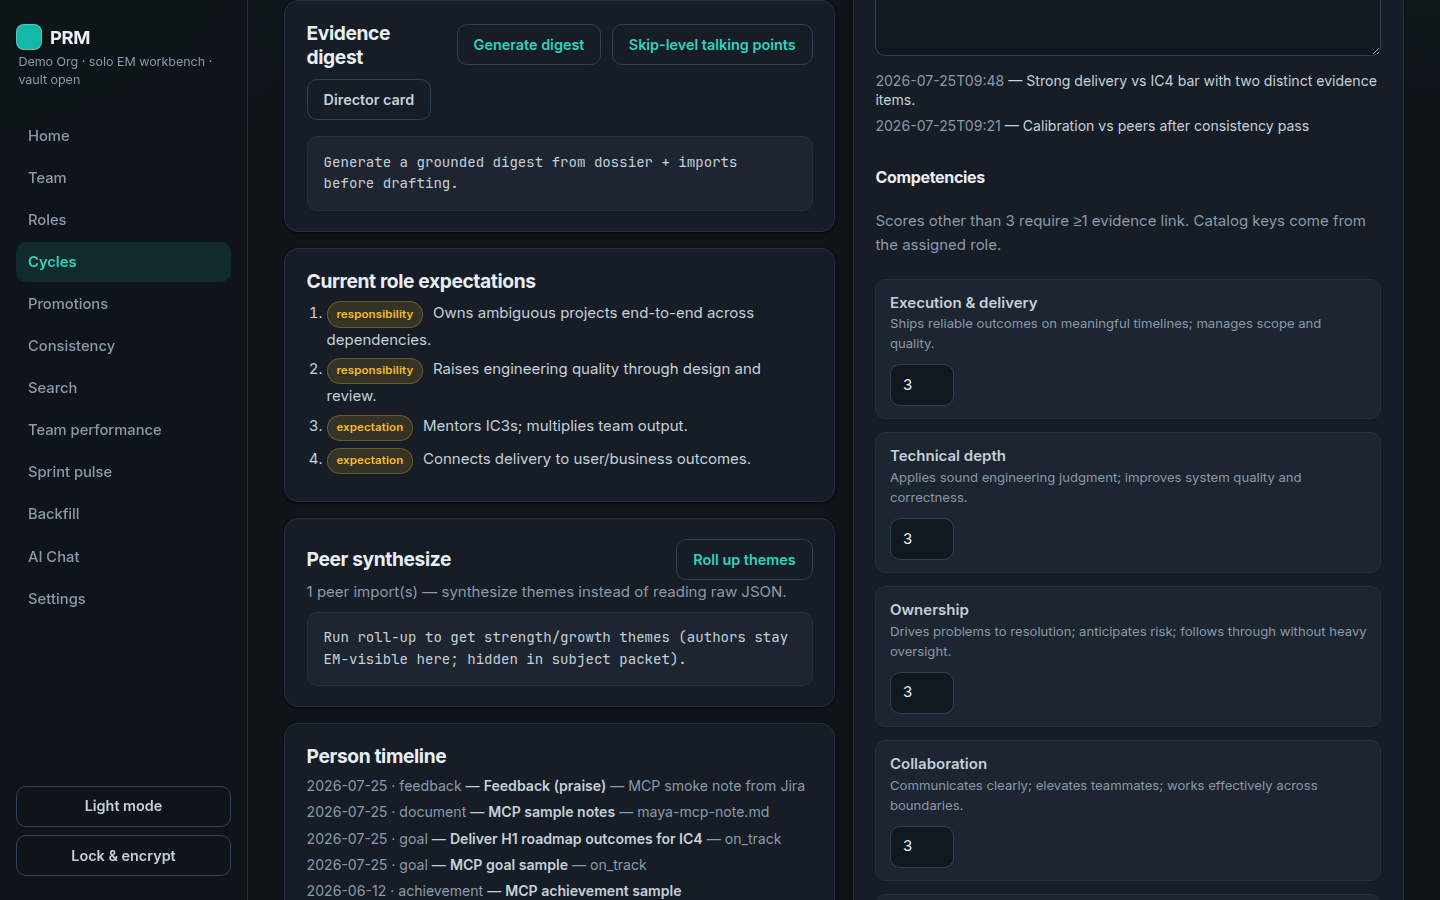
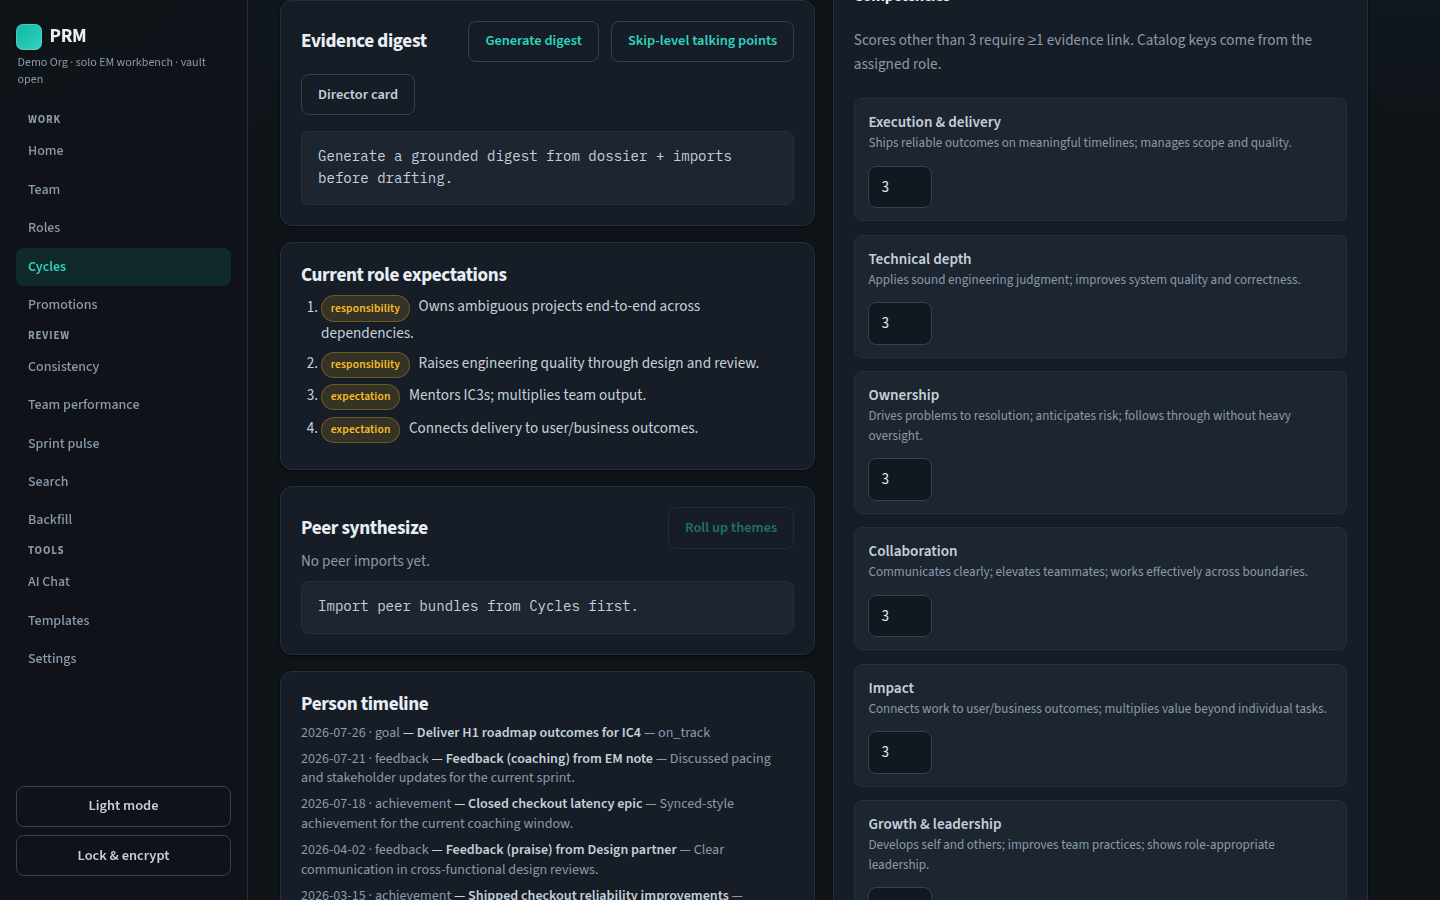
Refresh README screenshot gallery for current UI
Re-capture all gallery PNGs against the seeded demo, add sprint pulse,
and update the capture script to wipe/reseed plus create a promo packet.
README screen copy covers Settings section nav, workspace erase, and
manual desktop CI.

diff --git a/README.md b/README.md
@@ -85,9 +85,9 @@ Regenerate with `pnpm screenshots` (UI + API running; default password `workbenc
 
 **Intent:** Keep the workspace sealed when you walk away. The unlock gate is the trust boundary for local data.
 
-**How it works:** On first run you create a workspace password and choose an empty vault or a seeded demo org. Later sessions decrypt the vault with that password. **Lock & encrypt** re-seals SQLite and files so a stolen laptop disk is not a readable review archive.
+**How it works:** On first run you create a workspace password and choose an empty vault or a seeded demo org. Later sessions decrypt the vault with that password. **Lock & encrypt** re-seals SQLite and files so a stolen laptop disk is not a readable review archive. To wipe and start over, use **Erase workspace** on Unlock or **Delete workspace** in Settings (password + type `DELETE`).
 
-![Unlock workbench](./docs/screenshots/01-unlock.png)
+![Unlock / create workbench](./docs/screenshots/01-unlock.png)
 
 ### Home (command center)
 
@@ -179,6 +179,8 @@ Regenerate with `pnpm screenshots` (UI + API running; default password `workbenc
 
 **How it works:** Pick last 7 / 14 / 30 days or a custom range. See per-person achievement volume, Jira / Bitbucket throughput, feedback themes, open concerns, and evidence freshness (in-window vs older dossier items, plus stale-only cites on manager drafts).
 
+![Sprint pulse](./docs/screenshots/20-sprint-pulse.png)
+
 ### Backfill
 
 **Intent:** Unblock writing when dossiers are still empty after you first adopt the tool.
@@ -199,7 +201,7 @@ Regenerate with `pnpm screenshots` (UI + API running; default password `workbenc
 
 **Intent:** Configure providers, privacy gates, appearance, and vault maintenance in one place.
 
-**How it works:** Set AI provider and models (Anthropic, OpenAI, Cursor gateway, Ollama), toggle egress for private notes / meetings / document extracts, manage Jira and Bitbucket credentials, run encrypted backup / restore, verify the activity log, and choose appearance (system / dark / light plus Teal, Ocean, Forest, or Slate accent).
+**How it works:** Set AI provider and models (Anthropic, OpenAI, Cursor gateway, Ollama), toggle egress for private notes / meetings / document extracts, manage Jira / Bitbucket / GitHub / Linear credentials, run encrypted backup / restore, verify the activity log, and choose appearance (system / dark / light plus Teal, Ocean, Forest, or Slate accent). A sticky **On this page** nav jumps between sections. **Danger zone** permanently erases the local vault so you can create a new empty or demo workspace.
 
 ![Settings](./docs/screenshots/14-settings.png)
 
@@ -218,8 +220,9 @@ Regenerate with `pnpm screenshots` (UI + API running; default password `workbenc
 - **Promotions** against next-role expectations
 - **Backfill** wizard plus MCP / Jira / Bitbucket paths for thin dossiers
 - **AI**: digests, section draft, peer synthesize, chat, with citation allowlist
-- **Desktop** packaging (Tauri) with CI installers on `main`
-- **Dark / light** theme preference
+- **Desktop** packaging (Tauri); installers via Actions **Run workflow** (not on every merge)
+- **Dark / light** theme preference plus accent colors
+- **Delete / recreate workspace** from Unlock or Settings
 
 ## Docs
 

diff --git a/docs/screenshots/README.md b/docs/screenshots/README.md
@@ -9,18 +9,31 @@ pnpm screenshots
 # or: UI_URL=http://localhost:5173 PRM_PASSWORD=workbench pnpm screenshots
 ```
 
-Requires system Chrome (`google-chrome-stable`) and root `puppeteer-core`.
+The script **erases and re-seeds** the local demo workspace so shots stay consistent. Requires system Chrome (`google-chrome-stable`) and root `puppeteer-core`.
 
-Numbering matches the README Screens section (`01` unlock through `14` settings), including `11-team-performance`.
-
-Director / upward-pack close-ups (regenerated with the same script):
+Numbering matches the README Screens section (`01` unlock through `14` settings), plus director close-ups and sprint pulse:
 
 | File | Surface |
 | --- | --- |
+| `01-unlock.png` | Create workbench — empty vs demo |
+| `02-home.png` | Command center |
+| `03-team.png` | Team roster |
+| `04-person.png` | Person dossier |
+| `05-roles.png` | Roles |
+| `06-cycles.png` | Cycles |
+| `07-writing-desk.png` | Writing desk |
+| `08-promotions.png` | Promotions list |
+| `09-promotion-detail.png` | Promotion packet |
+| `10-consistency.png` | Consistency |
+| `11-team-performance.png` | Team performance |
+| `12-backfill.png` | Backfill |
+| `13-chat.png` | AI Chat |
+| `14-settings.png` | Settings (section nav + appearance) |
 | `15-director-attention.png` | Home — Needs director attention |
-| `16-writing-desk-director.png` | Writing desk — Skip-level talking points + Director card |
-| `17-consistency-director-packs.png` | Consistency — calib room / briefing / encrypted bundle |
+| `16-writing-desk-director.png` | Writing desk — Skip-level / Director card |
+| `17-consistency-director-packs.png` | Consistency — calib / briefing / bundle |
 | `18-team-director-briefing.png` | Team performance — Director briefing |
-| `19-promo-committee.png` | Promotion detail — Promo committee export |
+| `19-promo-committee.png` | Promotion — Promo committee export |
+| `20-sprint-pulse.png` | Sprint pulse |
 
-`01-unlock` includes empty vs demo workspace choice; `14-settings` includes color mode + accent swatches.
+`01-unlock` is the empty-vs-demo create screen. `14-settings` includes the sticky **On this page** nav (Appearance → Danger zone).
